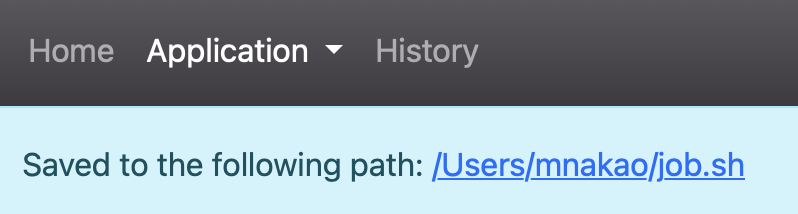
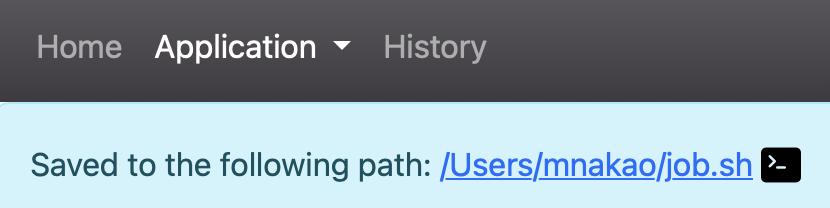
Add terminal application when saving job script

diff --git a/docs/application_ja.html b/docs/application_ja.html
@@ -76,10 +76,10 @@ related_app:
       
       <h3 id="form">1.2. form.yml</h3>
       <p>
-	<code>form.yml</code>は、<code>form</code>、<code>header</code>、<code>script</code>、<code>check</code>、<code>submit</code>というセクションで構成されています。<code>form</code>と<code>script</code>は必須項目ですが、<code>header</code>、<code>check</code>、<code>submit</code>は省略できます。
+	<code>form.yml</code>は、<code>form</code>、<code>script</code>、<code>header</code>、<code>check</code>、<code>submit</code>というセクションで構成されています。<code>form</code>と<code>script</code>は必須項目ですが、<code>header</code>、<code>check</code>、<code>submit</code>は省略できます。
       </p>
       <p>
-	次の図は<code>form</code>、<code>header</code>、<code>script</code>の担当範囲を示しています。<code>form</code>と<code>header</code>と<code>script</code>からジョブスクリプトが生成されます。<code>header</code>を省略した場合は<code>./lib/header.yml.erb</code>が代わりに利用されます（ほとんどの場合、<code>header</code>を<code>form.yml</code>で定義する必要はないでしょう）。なお、左上のアプリケーションの説明などは<code>manifest.yml</code>の担当範囲です。<code>check</code>はウィジットに設定された値のチェックをジョブの投入前に行います。<code>submit</code>はジョブを投入する際の前処理を定義します。
+	次の図は<code>form</code>、<code>script</code>、<code>header</code>の担当範囲を示しています。<code>form</code>と<code>script</code>と<code>header</code>からジョブスクリプトが生成されます。<code>header</code>を省略した場合は<code>./lib/header.yml.erb</code>が代わりに利用されます。そのため、ほとんどの場合、<code>header</code>を定義する必要はないでしょう。なお、左上のアプリケーションの説明などは<code>manifest.yml</code>の担当範囲です。<code>check</code>はウィジットに設定された値のチェックをジョブの投入前に行います。<code>submit</code>はジョブを投入する際の前処理を定義します。
       </p>
       <img src="img/sections.png" width="800" alt="Sections">
 
@@ -287,9 +287,6 @@ script: |
       
 script: |
   module load #{load_modules}</pre>
-      <p>
-	選択された項目が、<code>separator</code>で設定した区切り文字を用いて1行で表示されます。
-      </p>
       <img width="800" src="img/multi_select2.png" alt="multi select">
       <p>
 	<code>value</code>に複数の初期値を設定する場合は、配列形式で記述します。
@@ -399,7 +396,7 @@ script: |
       <p>
 	<code>text</code>ウィジットのように任意の文字列を入力することができます。また、「Select Path」ボタンをクリックすると、下記のようなモーダルを利用してファイルやディレクトリを選択できます。
       </p>
-      <img width="600" src="img/path2.png" alt="path">
+      <img style="border-style: solid; border-width: 1px;" width="600" src="img/path2.png" alt="path">
       <p>
 	<code>script</code>セクション中で利用できる関数として<code>dirname(FILE_PATH)</code>と<code>basename(FILE_PATH)</code>を提供しています。
 ディレクトリ名とファイル名を含むパス名から、<code>dirname()</code>はディレクトリ部分を、<code>basename()</code>はファイル部分だけを返します。
@@ -637,7 +634,7 @@ script:
       </p>
       <img src="img/save.png" width="400" alt="Save">
       <p>
-	ボタンをクリックすると保存が実行され、画面上部にその保存先が表示されます。そのリンクをクリックすると、Open OnDemandのHome Directoryが起動します。
+	ボタンをクリックすると保存が実行され、画面上部にその保存先が表示されます。その文字のリンクをクリックすると、Open OnDemandのHome Directoryが起動します。また、ターミナルのアイコンがある場合、そのアイコンをクリックするとOpen OnDemandのTerminalアプリケーションが起動します。
       </p>
       <img src="img/save2.png" width="400" alt="Save">
 
@@ -757,10 +754,10 @@ submit:
       
       <h2 id="header">8. headerセクション</h2>
       <p>
-	<code>header</code>セクションを定義できます。ただし、<code>lib/headers.yml.erb</code>で定義されているウィジットは必ず定義してください。
+	<code>header</code>セクションを定義できます。ただし、<code>lib/header.yml.erb</code>で定義されているウィジットは必ず定義してください。
       </p>
       <p>
-	下記の例は、定義されているウィジット（<code>_script_location</code>と<code>_script</code>）に、ジョブスクリプトを隠す新しいウィジット<code>script_content</code>を追加しています。<code>./conf.yml.erb</code>で<code>cluster</code>が定義されている場合は、<code>_cluster_name</code>の定義も必要です。
+	下記の例は、ジョブスクリプトを隠す新しいウィジット<code>script_content</code>を定義しています。<code>_script_location</code>と<code>_script</code>は<code>lib/header.yml.erb</code>で定義されているウィジットです（<code>./conf.yml.erb</code>で<code>cluster</code>が定義されている場合は、<code>_cluster_name</code>の定義も必要です）。
       </p>
 
       <pre>header:

diff --git a/docs/application.html b/docs/application.html
@@ -76,13 +76,14 @@ related_app:
       
       <h3 id="form">1.2. form.yml</h3>
       <p>
-	The <code>form.yml</code> is composed of five main sections: <code>form</code>, <code>header</code>, <code>script</code>, <code>check</code> and <code>submit</code>.
+	The <code>form.yml</code> is composed of five main sections: <code>form</code>, <code>script</code>, <code>header</code>, <code>check</code> and <code>submit</code>.
 	The <code>form</code> and <code>script</code> sections are required fields, but <code>header</code>, <code>check</code> and <code>submit</code> sections can be omitted.
       </p>
       <p>
-	The following figure shows the scope of <code>form</code>, <code>header</code> and <code>script</code> sections.
-	A job script is generated from <code>form</code>, <code>header</code>, and <code>script</code> sections.
-	However, the <code>header</code> section is optional, and if omitted, <code>./lib/header.yml.erb</code> is used instead (in most cases, there is no need to define <code>header</code>).
+	The following figure shows the scope of <code>form</code>, <code>script</code>, and <code>header</code> sections.
+	A job script is generated from <code>form</code>, <code>script</code>, and <code>header</code> sections.
+	However, the <code>header</code> section is optional, and if omitted, <code>./lib/header.yml.erb</code> is used instead.
+	Thus, in most cases, there is no need to define <code>header</code>.
 	Note that the application name in the upper left is the scope of <code>manifest.yml</code>.
 	The <code>check</code> section performs validation of the inputs before job submission.
 	The <code>submit</code> section defines the pre-processing when submitting a job.
@@ -426,7 +427,7 @@ script: |
       <p>
 	You can enter any string like in a <code>text</code> widget. Also, by clicking the "Select Path" button, you can select a file or directory using the modal shown below.
       </p>
-      <img width="600" src="img/path2.png" alt="path">
+      <img style="border-style: solid; border-width: 1px;" width="600" src="img/path2.png" alt="path">
       <p>
 	The functions <code>dirname(FILE_PATH)</code> and <code>basename(FILE_PATH)</code> can be used in the <code>script</code> section to extract the directory or file name from a path.
       </p>
@@ -680,6 +681,7 @@ script:
       <img src="img/save.png" width="400" alt="Save">
       <p>
 	Clicking the button will save the file, and the save destination will be displayed at the top of the screen. Clicking the link will launch the Open OnDemand Home Directory.
+	If there is a terminal icon, clicking that icon will launch the Open OnDemand Terminal application.
       </p>
       <img src="img/save2.png" width="400" alt="Save">
       <h3 id="hide-script">5.3. Hide script</h3>
@@ -709,7 +711,7 @@ Note that the filename is <code>form.yml.erb</code> since it uses ERB.
 
       <h3 id="variables">5.4. Special variables</h3>
       <p>
-        <code>script</code>セクションでは、下記の特殊な変数も利用できます。
+	The following special variables are also available in the <code>script</code> section:
       </p>
       <ul>
         <li>#{OC_APP_NAME}: Application name defined in <code>name</code> of <code>manifest.yml</code></li>
@@ -811,12 +813,11 @@ submit:
       <h2 id="header">8. Header section</h2>
       <p>
 	You can define the <code>header</code> section.
-	However, widgets with the same names as those defined in <code>lib/headers.yml.erb</code> must be defined.
-	If an error occurs in the script, the <code>set -e</code> command is required to interrupt preprocessing.
+	However, widgets with the same names as those defined in <code>lib/header.yml.erb</code> must be defined.
       </p>
       <p>
-	The following example adds a new widget <code>script_content</code>, which hides the job script, to the defined widgets (<code>_script_location</code> and <code>_script</code>).
-	If <code>cluster</code> is defined in <code>./conf.yml.erb</code>, <code>_cluster_name</code> must also be defined.
+	The example below defines a new widget, <code>script_content</code>, that hides the job script.
+	The <code>_script_location</code> and <code>_script</code> are widgets defined in <code>lib/header.yml.erb</code> (if a <code>cluster</code> is defined in <code>./conf.yml.erb</code>, you must also define <code>_cluster_name</code>).
       </p>
 
       <pre>header:
